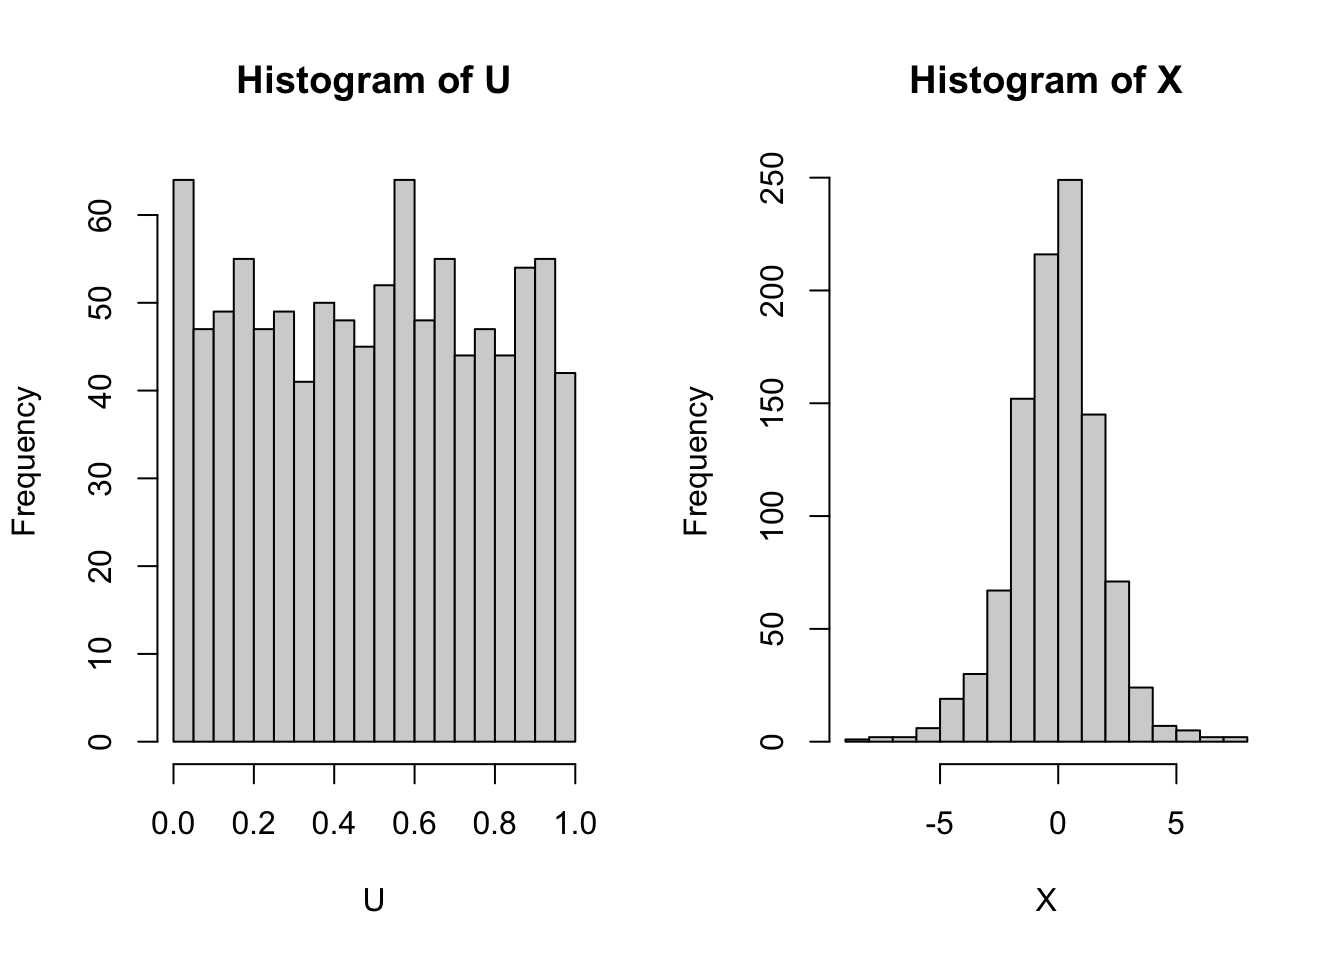
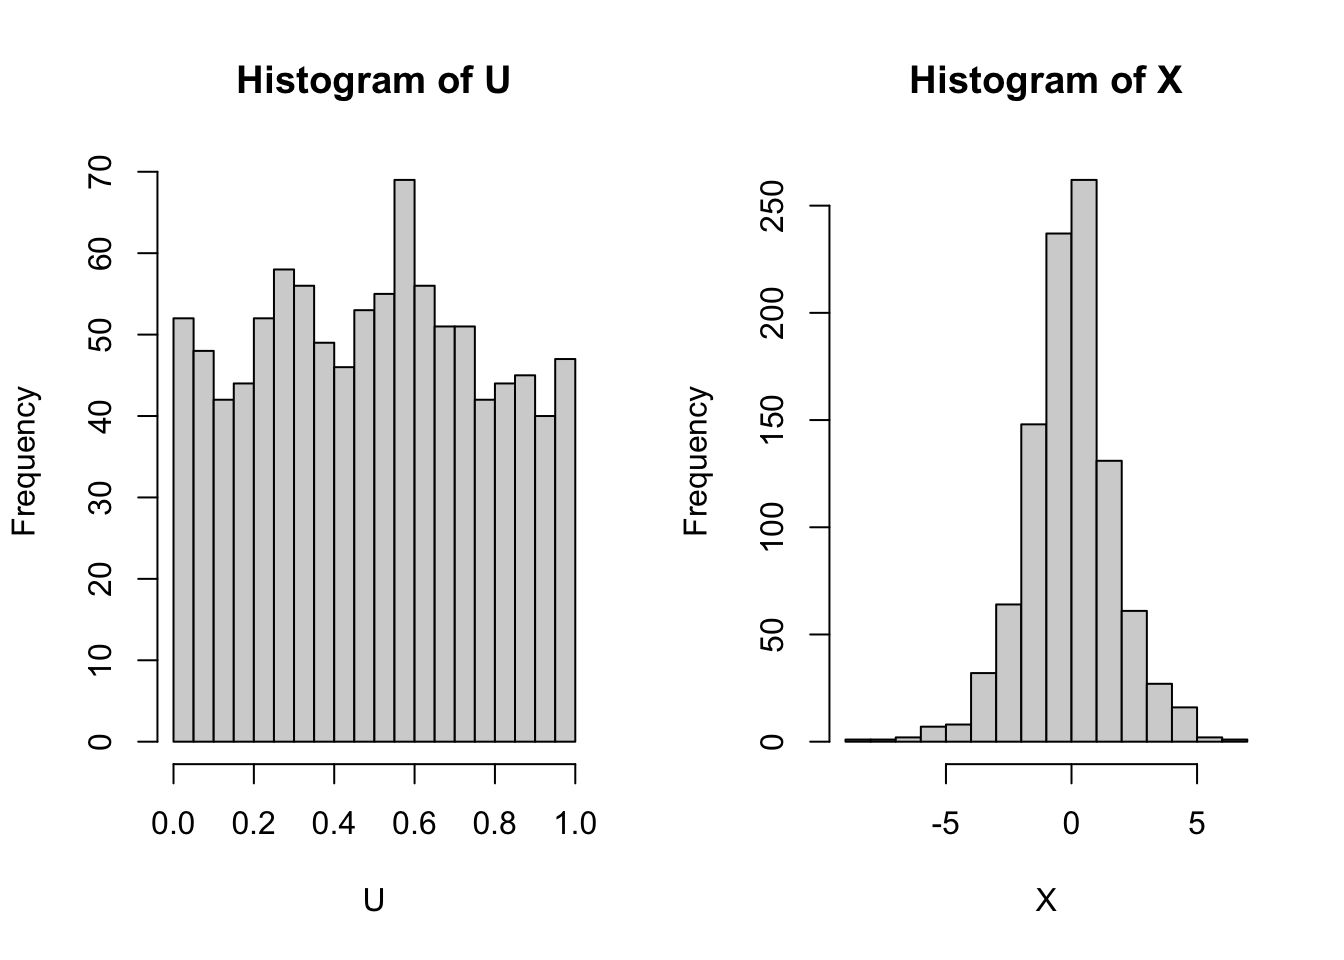
Add files via upload

diff --git a/compstat/R_statfunctions.html b/compstat/R_statfunctions.html
@@ -372,15 +372,16 @@ window.Quarto = {
 <div class="cell">
 <div class="sourceCode cell-code" id="cb1"><pre class="sourceCode r code-with-copy"><code class="sourceCode r"><span id="cb1-1"><a href="#cb1-1" aria-hidden="true" tabindex="-1"></a><span class="fu">runif</span>(<span class="dv">50</span>) <span class="co"># generate 50 pseudo-random Uniform(0,1) realizations</span></span></code><button title="Copy to Clipboard" class="code-copy-button"><i class="bi"></i></button></pre></div>
 <div class="cell-output cell-output-stdout">
-<pre><code> [1] 0.25313472 0.73248432 0.51317142 0.43944741 0.24925496 0.72660020
- [7] 0.69609631 0.61841381 0.33209789 0.60693070 0.82176539 0.91517508
-[13] 0.72982933 0.94578287 0.26951820 0.24056141 0.26543550 0.45717075
-[19] 0.25513688 0.59495354 0.63355451 0.93217331 0.07655843 0.43567924
-[25] 0.86233092 0.17684688 0.03852161 0.02742156 0.16344826 0.40254671
-[31] 0.51936520 0.15861545 0.51675761 0.32619610 0.55120861 0.03474229
-[37] 0.79101202 0.90997731 0.84629317 0.65753827 0.10028187 0.41397395
-[43] 0.67791356 0.92575350 0.48172482 0.99714022 0.79722299 0.93673059
-[49] 0.83438473 0.39051950</code></pre>
+<pre><code> [1] 0.6255340758 0.3611118342 0.3050027308 0.7409359969 0.2171542228
+ [6] 0.6699977198 0.3830504015 0.5088300956 0.4474121979 0.7184492766
+[11] 0.9760142157 0.0908324334 0.3387139689 0.5198400093 0.5450049774
+[16] 0.1126235120 0.2408337242 0.7337061053 0.1401725095 0.2376067038
+[21] 0.8554905020 0.9444525836 0.0325810367 0.3329465785 0.4191782528
+[26] 0.8444208622 0.9715476539 0.2806590893 0.9222439346 0.0522869828
+[31] 0.6865432572 0.0391259529 0.7623381855 0.2245682159 0.9083317528
+[36] 0.5101207870 0.0007206015 0.5897165933 0.0483509281 0.6844672533
+[41] 0.5774221502 0.5235968817 0.1991799849 0.2276287298 0.7927050041
+[46] 0.3566632906 0.7984711837 0.2573740804 0.2089212977 0.2499235512</code></pre>
 </div>
 </div>
 <p>Once one has obtained a random realization on the interval <span class="math inline">\((0,1)\)</span>, one can transform it into a realization of a random variable from any other distribution by passing it through the quantile function of that distribution. Specifically, suppose <span class="math inline">\(X\)</span> is a random variable with cdf given by <span class="math display">\[
@@ -712,7 +713,7 @@ f(x,\nu) = \frac{1}{\Gamma(\nu)2^{\nu/2}}x^{\nu/2 - 1}e^{-x/2}, \quad x &gt; 0
 </div>
 <ol start="3" type="1">
 <li>The standard bivariate normal probability density function is given by <span class="math display">\[
-f(z_1,z_2, \rho) = \frac{1}{2\pi\sqrt{1-\rho^2}}\exp\Big(\frac{z_1^2 - 2 \rho z_1z_2 + z_2^2}{2(1-\rho^2)}\Big) ,\quad z_1,z_2 \in \mathbb{R},
+f(z_1,z_2, \rho) = \frac{1}{2\pi\sqrt{1-\rho^2}}\exp\Big(-\frac{z_1^2 - 2 \rho z_1z_2 + z_2^2}{2(1-\rho^2)}\Big) ,\quad z_1,z_2 \in \mathbb{R},
 \]</span> where <span class="math inline">\(\rho \in (-1,1)\)</span> is the correlation parameter. Make a plot like the one below of this function (you will have to define your own function and evaluate it over a grid of points) with your own choice of the parameter <span class="math inline">\(\rho\)</span>. You can use the <code>persp()</code> function to create the 3-d plot.</li>
 </ol>
 <div class="cell">
